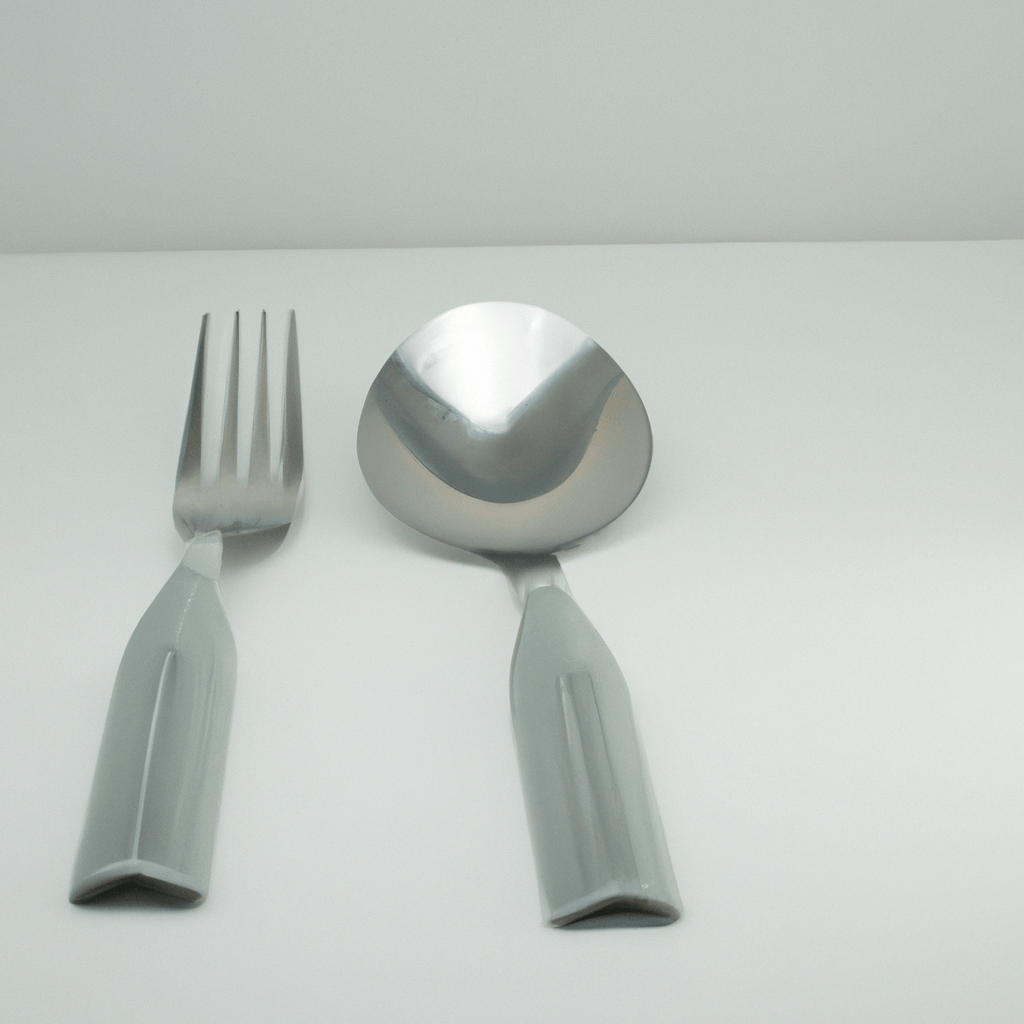
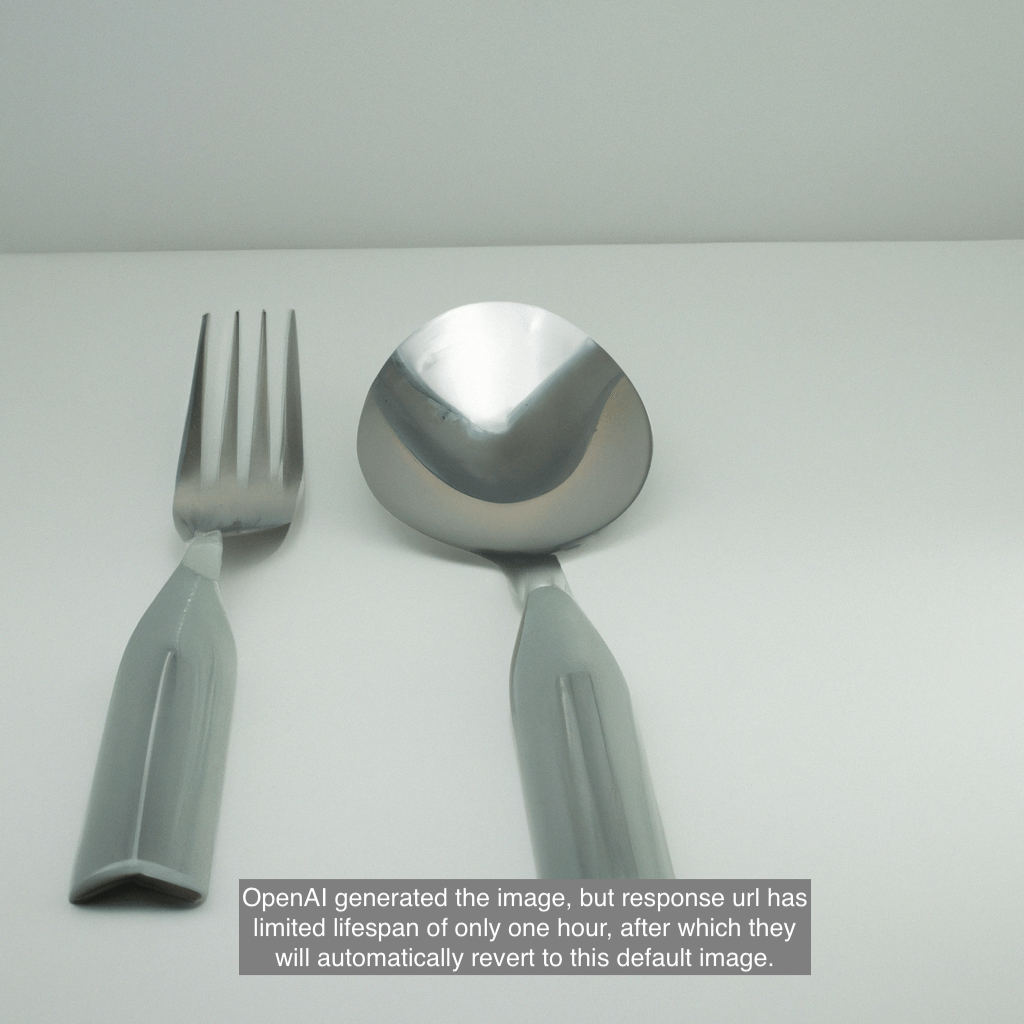
updated default image

Changed region(s): [[0.2188, 0.8438, 0.8125, 0.9688]]

diff --git a/src/components/Recipe.jsx b/src/components/Recipe.jsx
@@ -230,7 +230,7 @@ class Recipe extends React.Component {
                         height: '400px',
                         objectFit: 'cover',
                       }}
-                      title="AI generates the images, and their lifespan is limited to only two hours. Once this time elapses, the image will automatically revert to a default one."
+                      title="OpenAI generated the image, but response url has limited lifespan of only one hour, after which they will automatically revert to this default image."
                     />
                     <div className="info-div">
                       <h3>{recipe.dishName}</h3>
